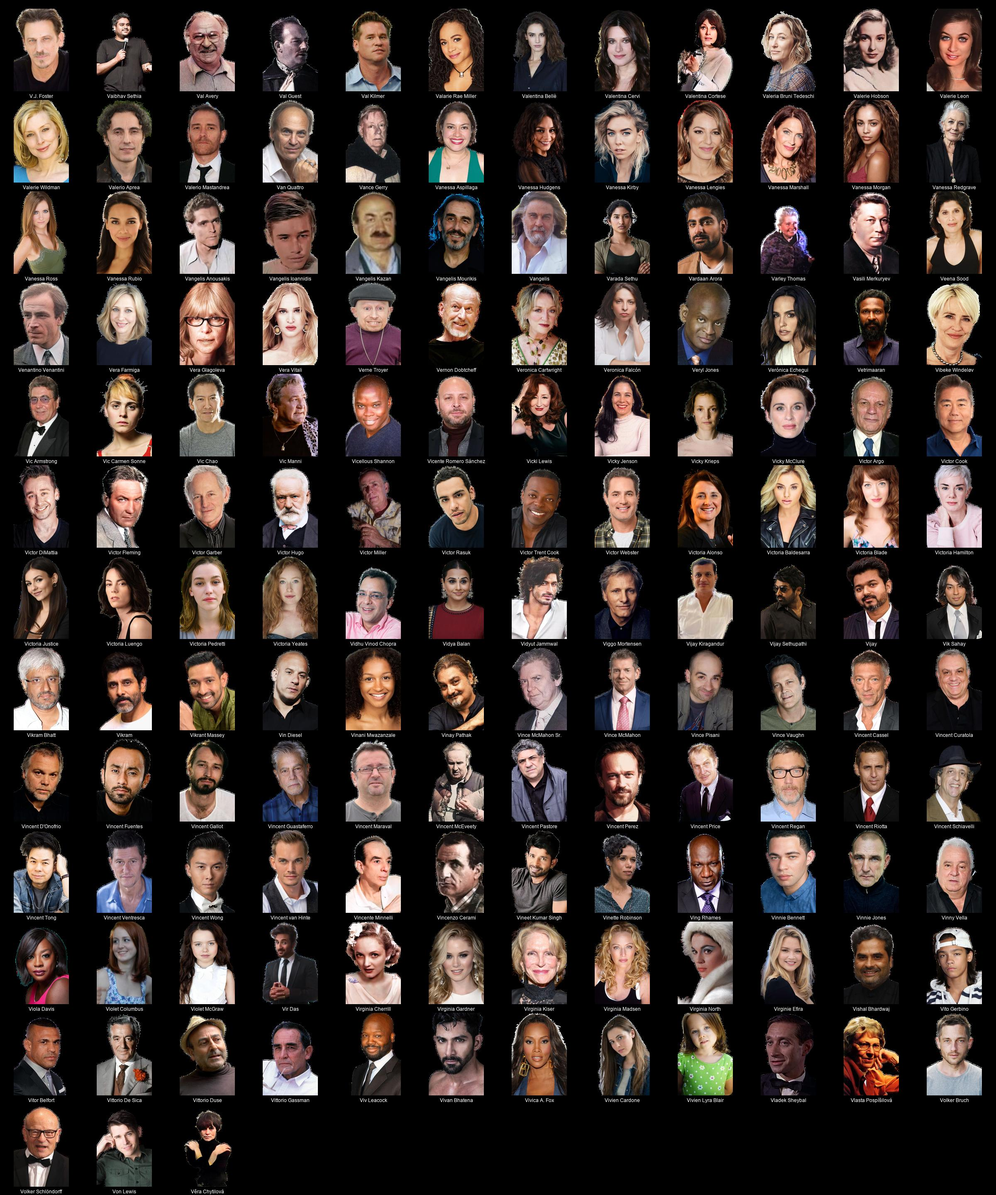
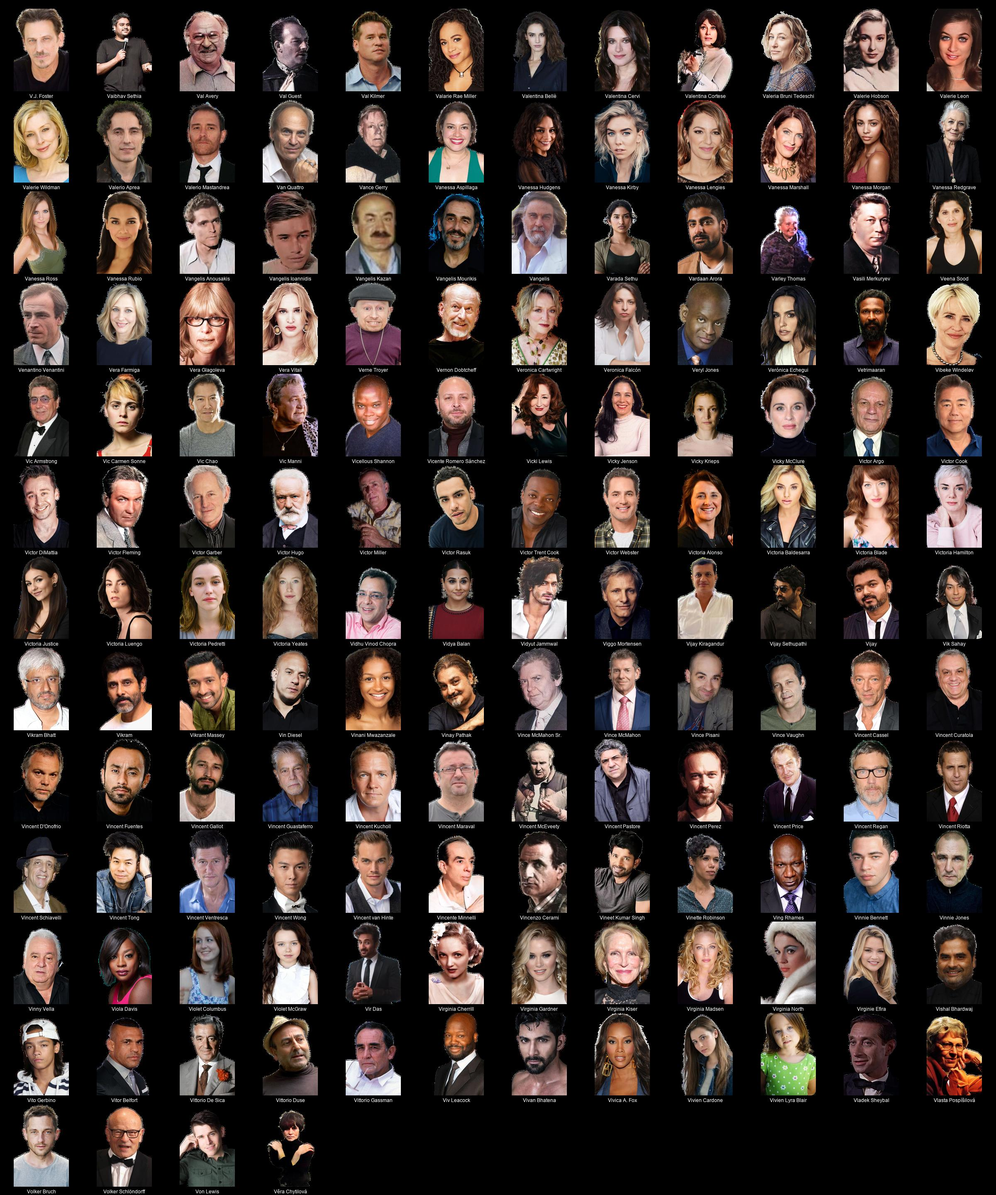
chore: sync posters & docs [transparent,diiivoycolor] - 2026-06-28 14:10

Changed region(s): [[0.0, 0.5938, 1.0, 1.0]]

diff --git a/README.md b/README.md
@@ -1,4 +1,4 @@
-# Kometa People Images - Transparent (transparent) (13007 Images)
+# Kometa People Images - Transparent (transparent) (13008 Images)
 
 <details><summary><a href="'">' (1 Images)</a></summary>
 
@@ -12491,7 +12491,7 @@
 * [Uwe Boll](https://raw.githubusercontent.com/Kometa-Team/People-Images-transparent/master/U/Images/Uwe%20Boll.png)
 * [Uzo Aduba](https://raw.githubusercontent.com/Kometa-Team/People-Images-transparent/master/U/Images/Uzo%20Aduba.png)
 </details>
-<details><summary><a href="V">V (147 Images)</a></summary>
+<details><summary><a href="V">V (148 Images)</a></summary>
 
 * [V.J. Foster](https://raw.githubusercontent.com/Kometa-Team/People-Images-transparent/master/V/Images/V.J.%20Foster.png)
 * [Vaibhav Sethia](https://raw.githubusercontent.com/Kometa-Team/People-Images-transparent/master/V/Images/Vaibhav%20Sethia.png)
@@ -12593,6 +12593,7 @@
 * [Vincent Fuentes](https://raw.githubusercontent.com/Kometa-Team/People-Images-transparent/master/V/Images/Vincent%20Fuentes.png)
 * [Vincent Gallot](https://raw.githubusercontent.com/Kometa-Team/People-Images-transparent/master/V/Images/Vincent%20Gallot.png)
 * [Vincent Guastaferro](https://raw.githubusercontent.com/Kometa-Team/People-Images-transparent/master/V/Images/Vincent%20Guastaferro.png)
+* [Vincent Kucholl](https://raw.githubusercontent.com/Kometa-Team/People-Images-transparent/master/V/Images/Vincent%20Kucholl.png)
 * [Vincent Maraval](https://raw.githubusercontent.com/Kometa-Team/People-Images-transparent/master/V/Images/Vincent%20Maraval.png)
 * [Vincent McEveety](https://raw.githubusercontent.com/Kometa-Team/People-Images-transparent/master/V/Images/Vincent%20McEveety.png)
 * [Vincent Pastore](https://raw.githubusercontent.com/Kometa-Team/People-Images-transparent/master/V/Images/Vincent%20Pastore.png)

diff --git a/V/README.md b/V/README.md
@@ -1,4 +1,4 @@
-# Kometa People Images - Transparent (transparent) - V (147 Images)
+# Kometa People Images - Transparent (transparent) - V (148 Images)
 ![Grid](grid.jpg)
 
 * [V.J. Foster](https://raw.githubusercontent.com/Kometa-Team/People-Images-transparent/master/V/Images/V.J.%20Foster.png)
@@ -101,6 +101,7 @@
 * [Vincent Fuentes](https://raw.githubusercontent.com/Kometa-Team/People-Images-transparent/master/V/Images/Vincent%20Fuentes.png)
 * [Vincent Gallot](https://raw.githubusercontent.com/Kometa-Team/People-Images-transparent/master/V/Images/Vincent%20Gallot.png)
 * [Vincent Guastaferro](https://raw.githubusercontent.com/Kometa-Team/People-Images-transparent/master/V/Images/Vincent%20Guastaferro.png)
+* [Vincent Kucholl](https://raw.githubusercontent.com/Kometa-Team/People-Images-transparent/master/V/Images/Vincent%20Kucholl.png)
 * [Vincent Maraval](https://raw.githubusercontent.com/Kometa-Team/People-Images-transparent/master/V/Images/Vincent%20Maraval.png)
 * [Vincent McEveety](https://raw.githubusercontent.com/Kometa-Team/People-Images-transparent/master/V/Images/Vincent%20McEveety.png)
 * [Vincent Pastore](https://raw.githubusercontent.com/Kometa-Team/People-Images-transparent/master/V/Images/Vincent%20Pastore.png)
